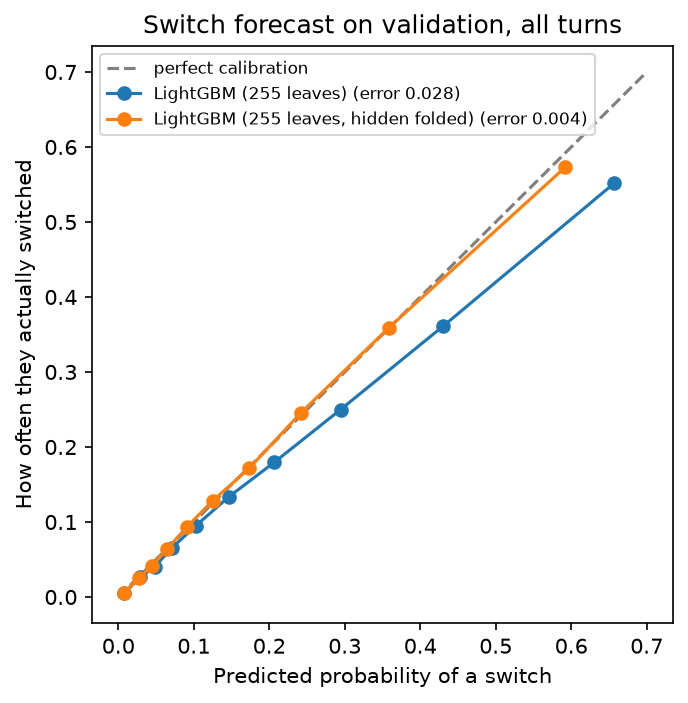
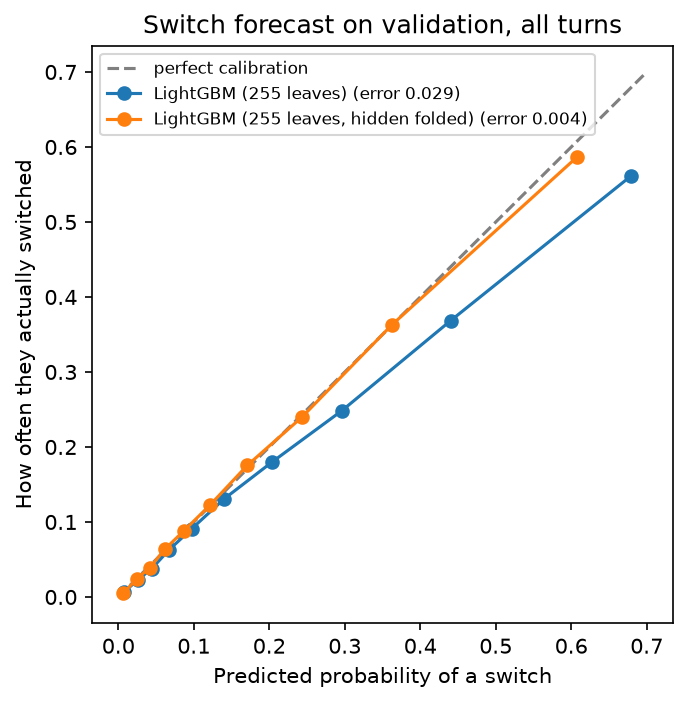
Seven belief-based features for status, hazard and setup threats (D7)
Opponent model (bias-corrected LightGBM), validation all-turns log loss 0.721 -> 0.670,
non-damaging recall 32% -> 48%. Also records the 1,000-game forecast comparison.

Claude-Session: https://claude.ai/code/session_015ZcjucyqGA9QV7QVa1Macd

diff --git a/docs/decisions.md b/docs/decisions.md
@@ -15,6 +15,36 @@ Template:
 
 ---
 
+## 2026-11-22: Seven belief-based features for non-damaging threats (D7 #90, Raghav with Claude)
+**Decision:** add seven features computed from the beliefs about the acting player's moves: the
+expected number of Status moves in its set; the most likely status-inflicting move that could
+land on our active Pokemon now (no status yet, no type immunity); the most likely hazard move
+whose hazard isn't maxed on our side (only if we have more than one Pokemon left); the most
+likely hazard-removal move when hazards are on its own side; and the probabilities of Protect,
+Substitute and a pivot move (U-turn, Parting Shot ...).
+**Alternatives:** more raw counts (revealed status moves only); a separate model per move type;
+leaving the model to learn this from the existing 29 features.
+**Why:** the opponent model caught only 32% of non-damaging turns, mostly calling them attacks,
+because the 29 features never said what the player could usefully do with a status move right
+now. On validation (bias-corrected LightGBM, all turns) log loss falls from 0.721 to 0.670,
+accuracy rises from 64.8% to 67.2% and non-damaging recall from 32% to 48%; the switch forecast
+stays calibrated (error 0.004). "Expected status moves" is the most-used feature by gain (13%).
+All seven use only public information through the beliefs, so they add no leakage.
+
+## 2026-11-22: A better forecast barely moves the win rate; work on the payoff table next (E, F, Raghav with Claude)
+**Decision:** after plugging the opponent model into the agent, put the next effort into the
+payoff table (#66 to #69) and the value model (#71 to #74), not into a better forecast.
+**Alternatives:** keep improving the opponent model first; run more games to resolve the small
+differences.
+**Why:** best response against SimpleHeuristicsPlayer, 1,000 games each (Wilson 95%): no beliefs
+and a flat 1/3 forecast 617 (58.6% to 64.7%); beliefs with a flat forecast 606 (57.5% to 63.6%);
+beliefs with the bias-corrected LightGBM forecast (29 features) 632 (60.2% to 66.1%). The model
+adds about 2.6 points over beliefs alone, which is not significant (z about 1.2). The forecast
+mostly helps when we can punish a predicted switch or setup turn, and the one-turn payoff table
+gives setup, status and hazard moves almost no value, so it cannot act on that knowledge. A
+1,000-game run can only detect differences of about 4 points, so more games would not settle
+this; the puzzle positions (#73) will show which decisions the forecast changes.
+
 ## 2026-11-22: Correct the hidden-choice label bias with a "hidden" class; no separate calibration (E4 #32, C6 #91, Raghav with Claude)
 **Decision:** the parser also exports turns whose choice the log hides (the Pokemon fainted
 before acting, couldn't move or was dragged out; lock-ins and recharging are not choices and
